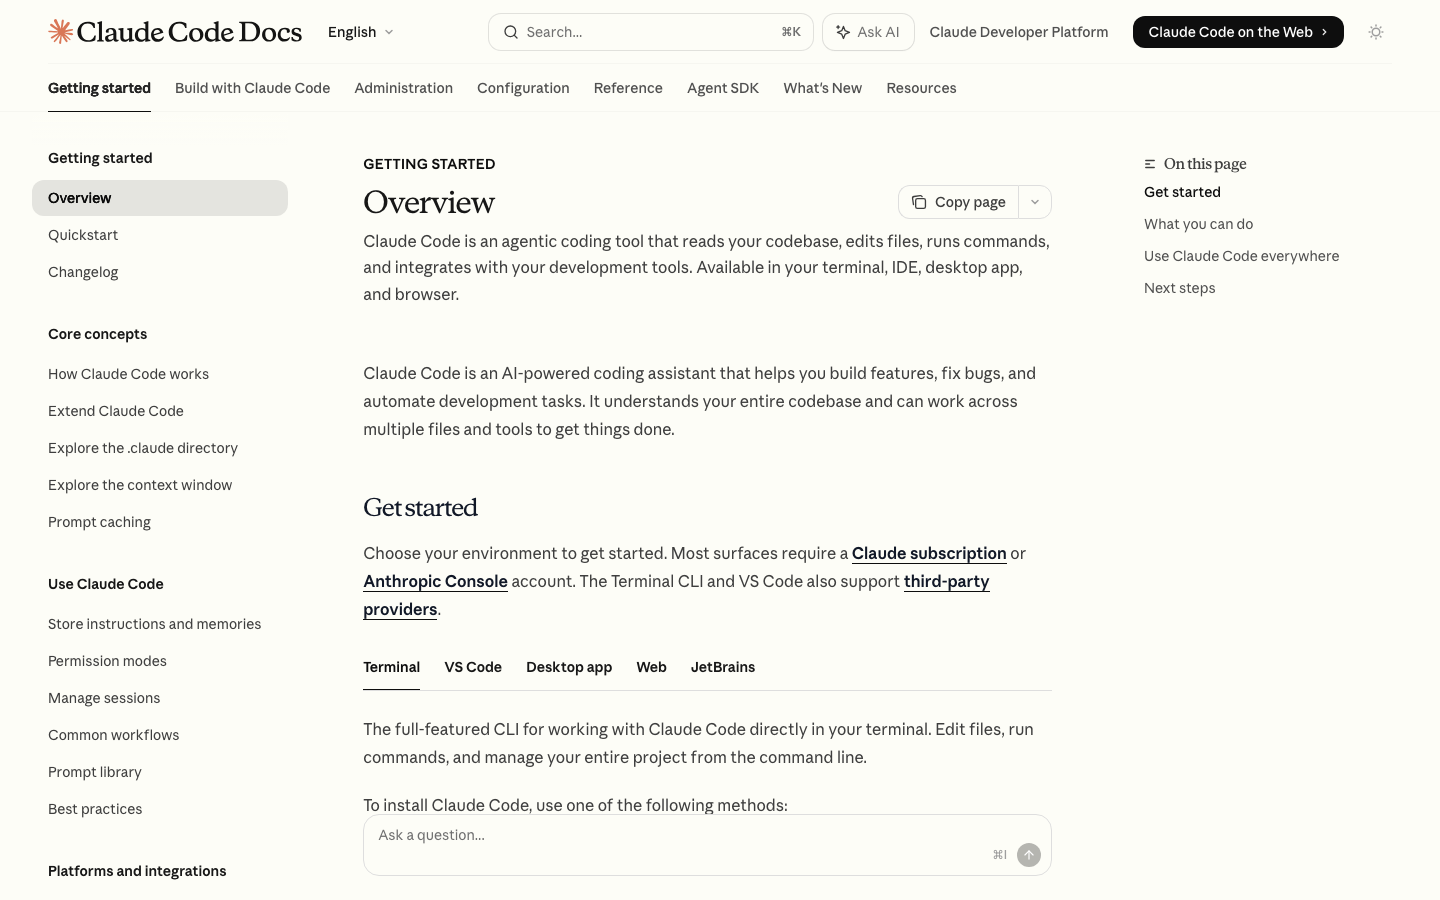
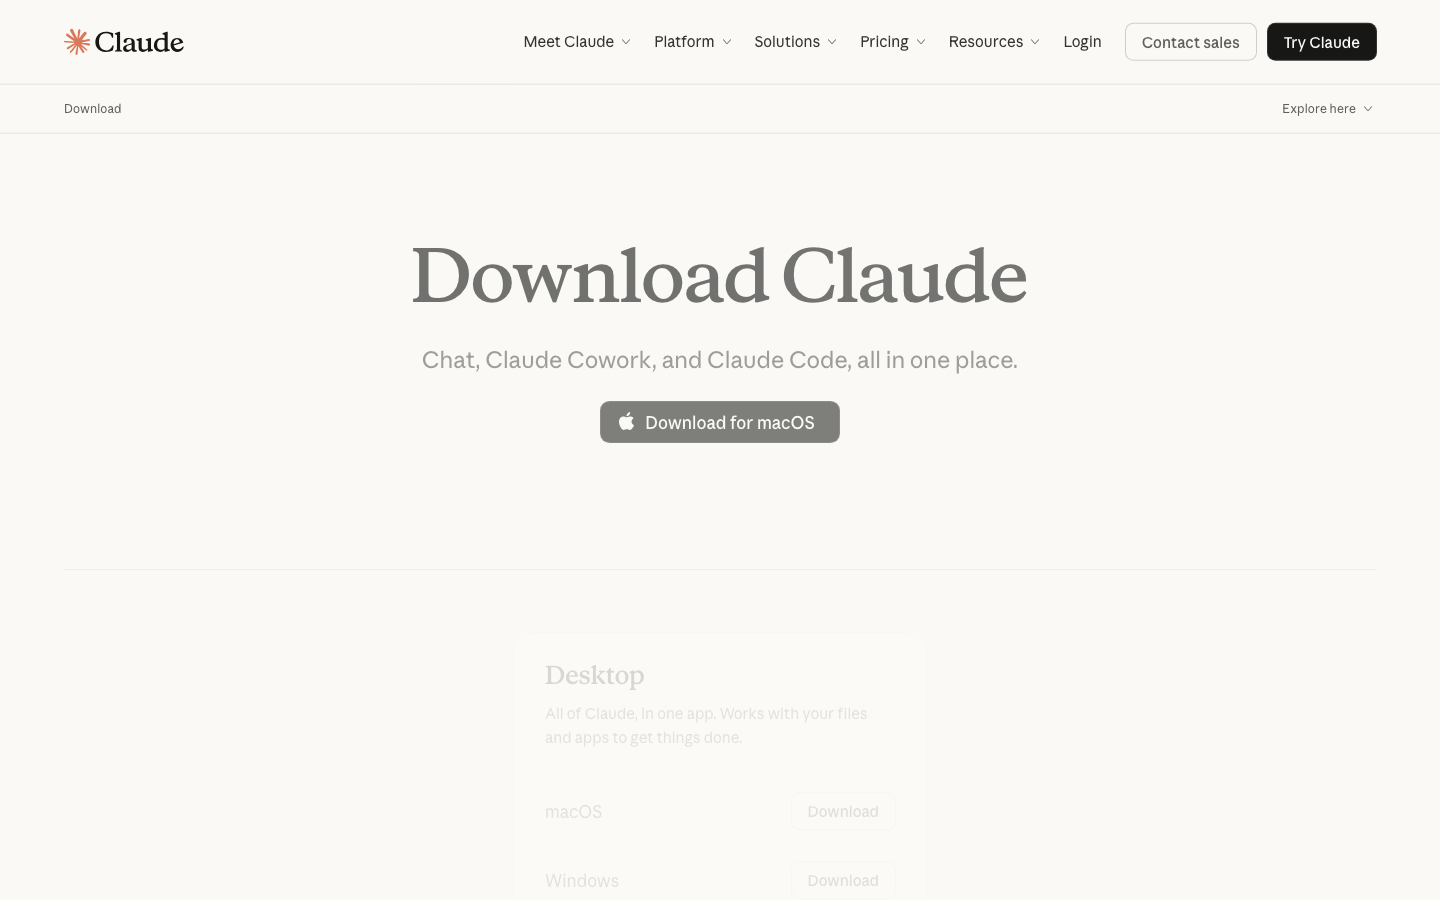
docs(workflow): use claude.com/download for step 2
The actual Claude download page renders cleanly in headless Chrome —
swap the docs.claude.com Overview fallback for it, update the caption
and the in-step link to match.

diff --git a/web/app/(site)/docs/workflow/page.tsx b/web/app/(site)/docs/workflow/page.tsx
@@ -131,17 +131,17 @@ export default function WorkflowPage() {
         number={2}
         title="Install Claude Code"
         screenshot="step-02-install-claude-code.png"
-        caption="Claude Code Overview docs — same install instructions, easier to skim. The download link itself is at claude.com/claude-code."
+        caption="The Claude download page at claude.com/download — desktop + Claude Code in one place."
       >
         <p>
           Download from{" "}
           <a
-            href="https://claude.com/claude-code"
+            href="https://claude.com/download"
             className="text-[var(--primary)] underline"
             target="_blank"
             rel="noopener noreferrer"
           >
-            https://claude.com/claude-code
+            https://claude.com/download
           </a>{" "}
           and run the installer. Sign in with your Anthropic account.
         </p>